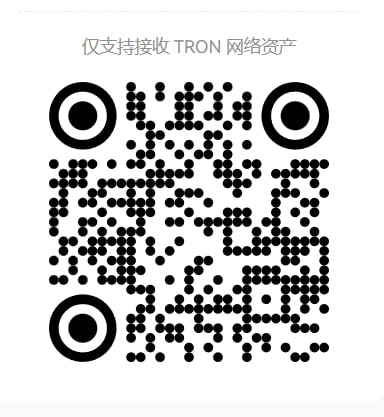
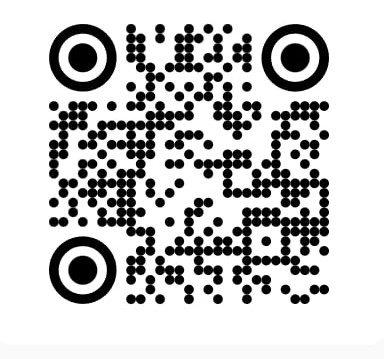
新增捐助页面

diff --git a/src/pages/clashforios-offical.md b/src/pages/clashforios-offical.md
@@ -16,6 +16,7 @@ hide_table_of_contents: true
 - [最新版下载](/download)
 - [节点分享](/blog/isp/node-share)
 - [常见问题](/faq)
+- [捐助](/donate)
 
 ## Apple/iOS
 - [Download in App Store](https://apps.apple.com/us/app/karing/id6472431552) (search the keyword `karing vpn`)
@@ -31,7 +32,7 @@ hide_table_of_contents: true
     - https://github.com/KaringX/karing/issues
 - 电报群/Telegram
     - https://t.me/KaringApp
-
+  
 
 
 

diff --git a/i18n/en/docusaurus-plugin-content-docs/current/download.md b/i18n/en/docusaurus-plugin-content-docs/current/download.md
@@ -32,6 +32,3 @@ slug: /download
 - If you are willing to provide multilingual support, including but not limited to English, Russian, Persian, Arabic, Vietnamese, Burmese, Spanish, Turkish, Greek, etc., please contact [GooRingX](https://t.me/ovowe) .
 - Your generous assistance will make `karing` even powerful!
 
-<!-- ## Donate
-- ![donate](/img/donate-usdt.jpg)
--->

diff --git a/docs/download.md b/docs/download.md
@@ -35,6 +35,3 @@ slug: /download
 - Your generous assistance will make `karing` even powerful!
 
 
-<!-- ## 捐赠
-- ![donate](/img/donate-usdt.jpg)
- -->

diff --git a/i18n/en/docusaurus-plugin-content-docs/current/donate.md b/i18n/en/docusaurus-plugin-content-docs/current/donate.md
@@ -1,0 +1,9 @@
+---
+sidebar_position: 9
+slug: /donate
+title: 捐助
+---
+
+# Donate
+### TRON
+![](../../../../static/img/donate-usdt.jpg#center)

diff --git a/docs/donate.md b/docs/donate.md
@@ -1,0 +1,9 @@
+---
+sidebar_position: 9
+slug: /donate
+title: 捐助
+---
+
+# 捐助
+### TRON
+![](../static/img/donate-usdt.jpg#center)
